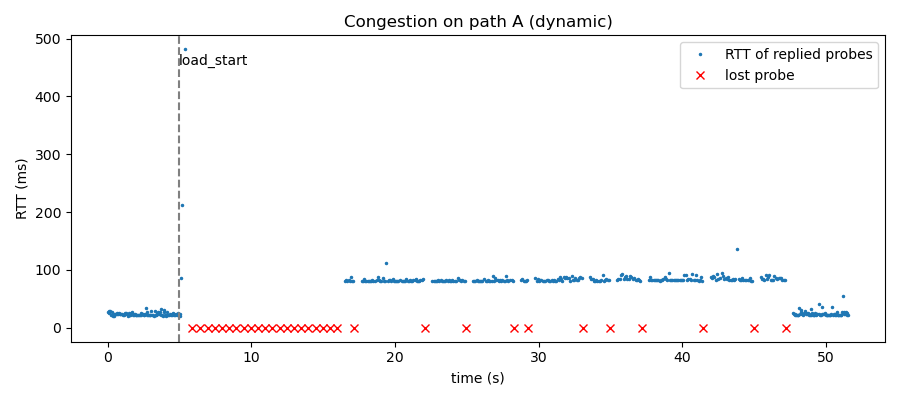
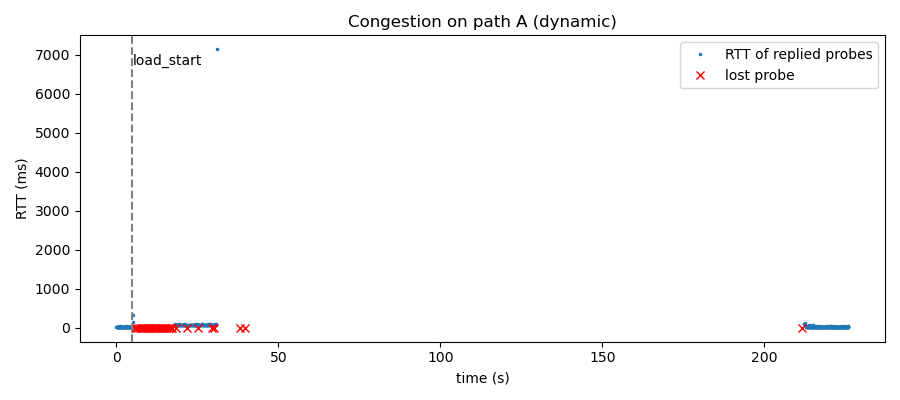
Repeated experiments and summary

diff --git a/diag/summarize.py b/diag/summarize.py
@@ -1,0 +1,30 @@
+import ast, collections, os, re
+
+HERE = os.path.dirname(os.path.abspath(__file__))
+LOG = os.path.join(HERE, '..', 'results', 'repeats.log')
+
+data = collections.defaultdict(list)
+for line in open(LOG):
+    label, _, rest = line.partition('|')
+    m = re.search(r'\{.*?\}', rest)
+    if not m:
+        continue
+    try:
+        d = ast.literal_eval(m.group(0))
+    except Exception:
+        continue
+    pc = re.search(r'path changes:\s*(\d+)', rest)
+    if pc:
+        d['path_changes'] = int(pc.group(1))
+    data[label.strip()].append(d)
+
+out = ['| Experiment | Runs | Metric | Average | Min | Max |', '|---|---|---|---|---|---|']
+for label, runs in data.items():
+    for k in sorted({k for r in runs for k in r}):
+        vals = [r[k] for r in runs if isinstance(r.get(k), (int, float))]
+        if vals:
+            out.append(f'| {label} | {len(runs)} | {k} | {sum(vals)/len(vals):.2f} | {min(vals):.2f} | {max(vals):.2f} |')
+
+text = '\n'.join(out)
+print(text)
+open(os.path.join(HERE, '..', 'results', 'summary.md'), 'w').write(text + '\n')

diff --git a/results/summary.md b/results/summary.md
@@ -1,0 +1,21 @@
+| Experiment | Runs | Metric | Average | Min | Max |
+|---|---|---|---|---|---|
+| failure | 3 | detect_s | 0.01 | 0.01 | 0.01 |
+| failure | 3 | lost_probes | 4.00 | 3.00 | 5.00 |
+| failure | 3 | outage_s | 0.51 | 0.50 | 0.51 |
+| failure | 3 | reroute_s | 0.01 | 0.01 | 0.01 |
+| failure --static | 3 | detect_s | 0.01 | 0.01 | 0.01 |
+| failure --static | 3 | lost_probes | 27.33 | 27.00 | 28.00 |
+| failure --static | 3 | outage_s | 13.84 | 13.65 | 14.17 |
+| congestion | 3 | jitter | 18.05 | 3.55 | 46.36 |
+| congestion | 3 | loss_pct | 7.00 | 6.40 | 7.80 |
+| congestion | 3 | path_changes | 2.00 | 2.00 | 2.00 |
+| congestion | 3 | rtt_avg | 60.04 | 57.85 | 62.86 |
+| congestion | 3 | rtt_max | 2600.34 | 322.17 | 7139.13 |
+| congestion | 3 | sent | 500.00 | 500.00 | 500.00 |
+| congestion --static | 3 | jitter | 5.83 | 5.45 | 6.43 |
+| congestion --static | 3 | loss_pct | 10.40 | 10.20 | 10.60 |
+| congestion --static | 3 | path_changes | 0.00 | 0.00 | 0.00 |
+| congestion --static | 3 | rtt_avg | 28.11 | 26.96 | 29.32 |
+| congestion --static | 3 | rtt_max | 386.03 | 316.99 | 488.98 |
+| congestion --static | 3 | sent | 500.00 | 500.00 | 500.00 |
